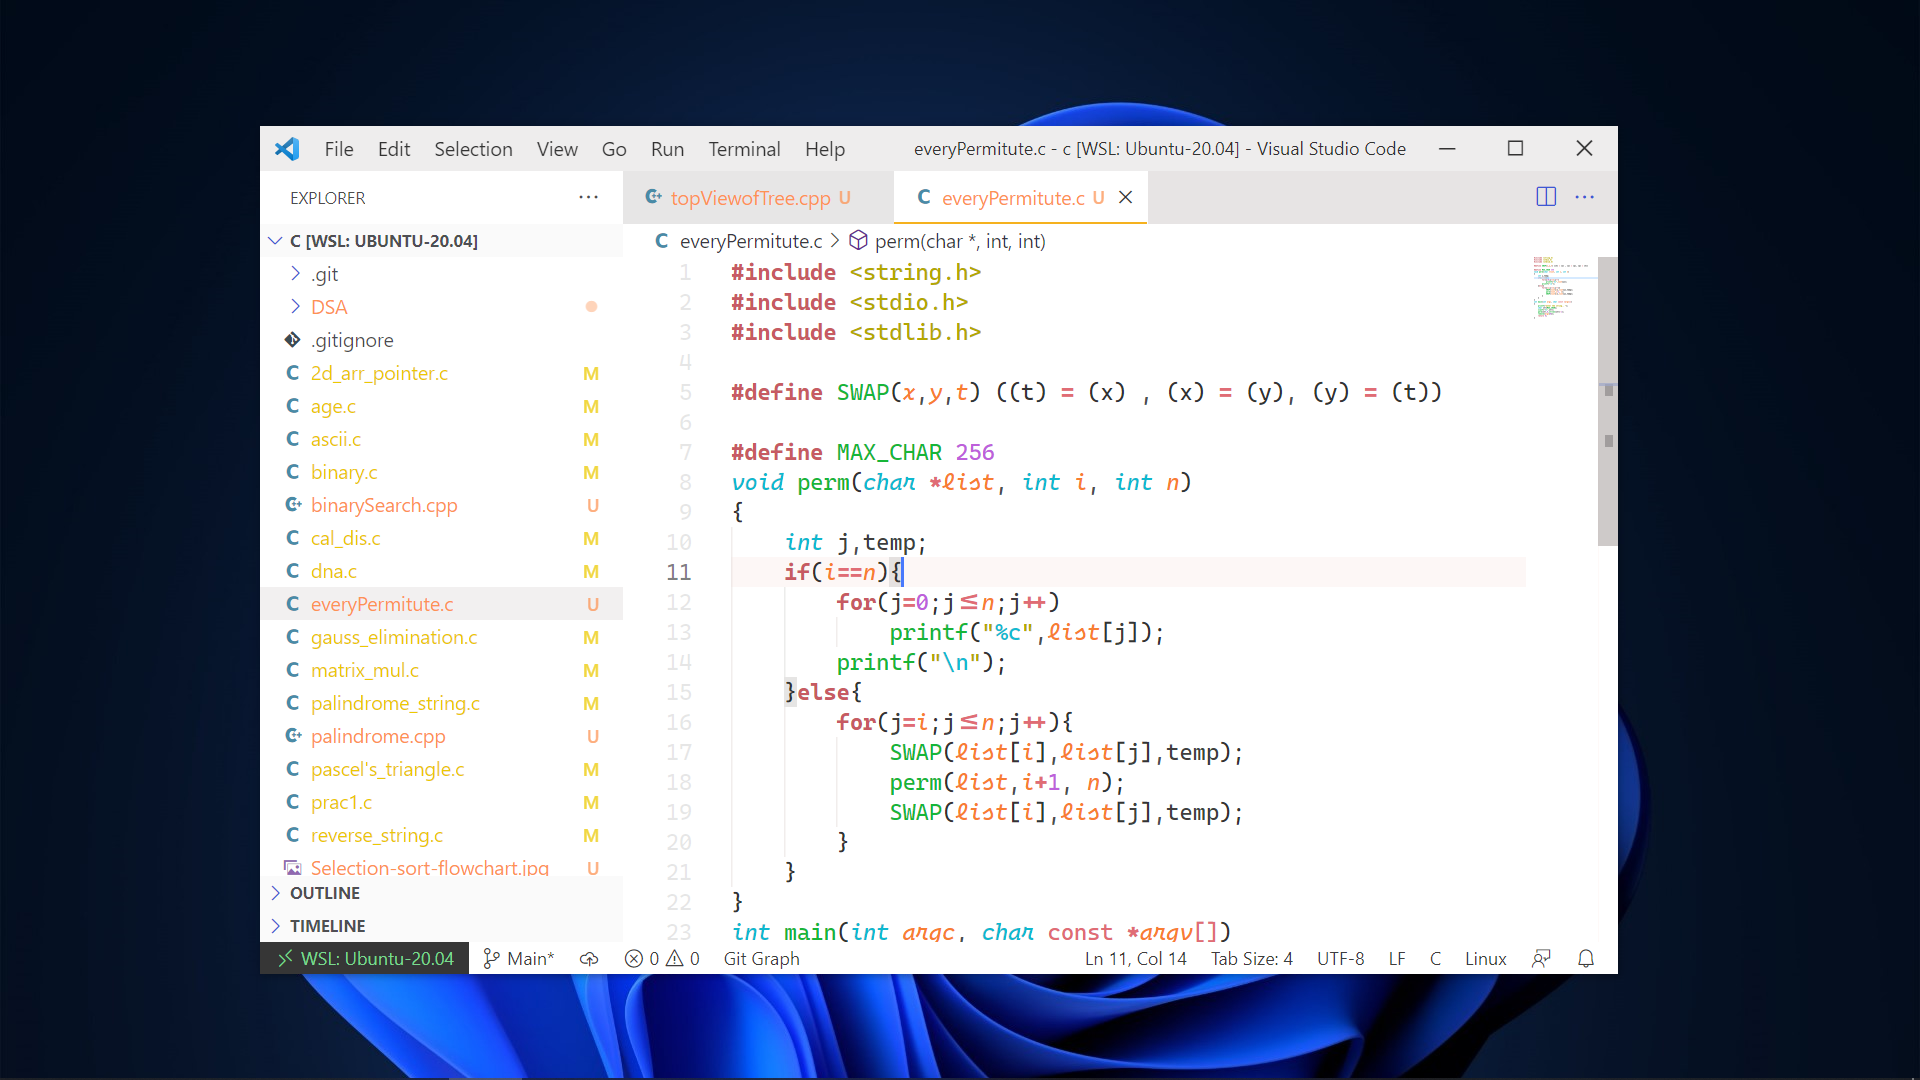
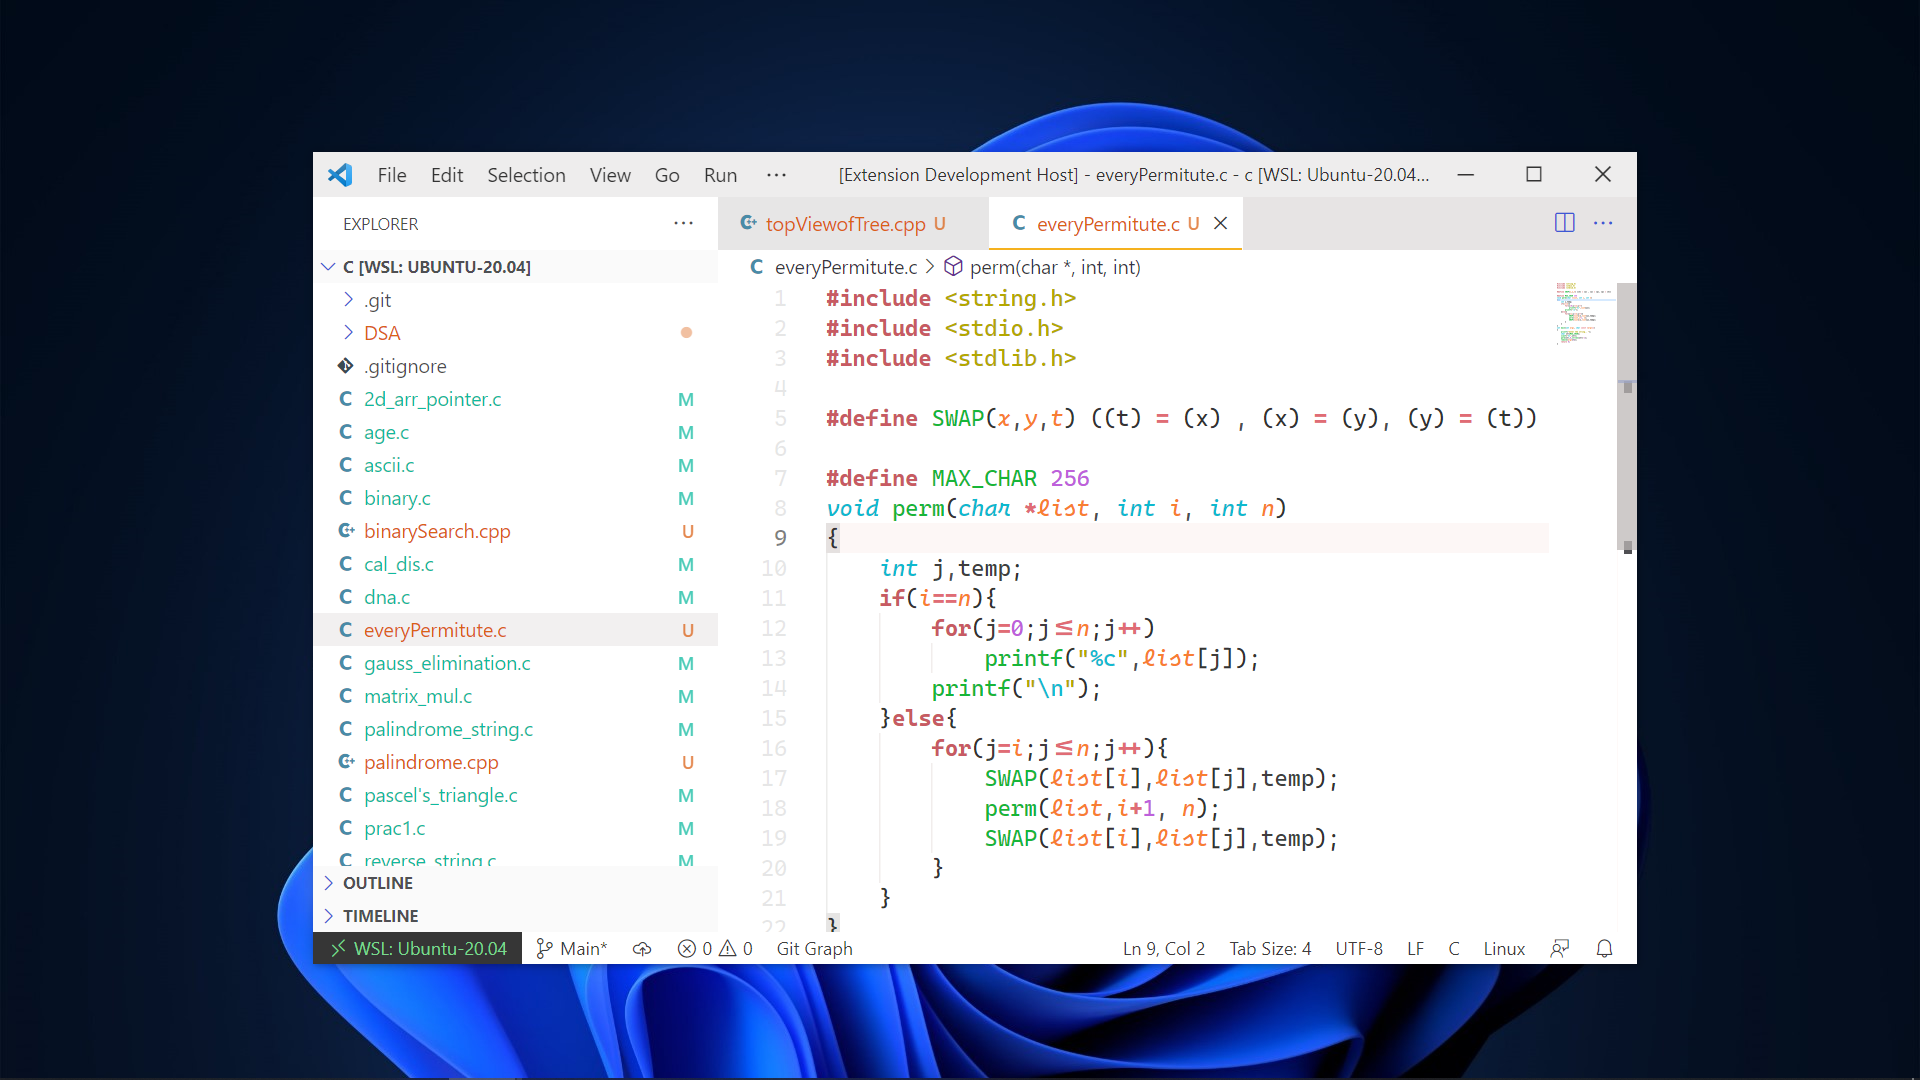
improved the light theme

diff --git a/CHANGELOG.md b/CHANGELOG.md
@@ -4,8 +4,8 @@
 ## Ver 3.5.0
 ### Improved the Light Theme
 ## Ver 3.4
-### Added the Light theme and minor dark theme improvement
-
+- Added the Light theme and minor dark theme improvement
+- changed the colours for the git modified, added.
 
 ## Ver 2.4.1
 ### improved the theme 🎆🎉
